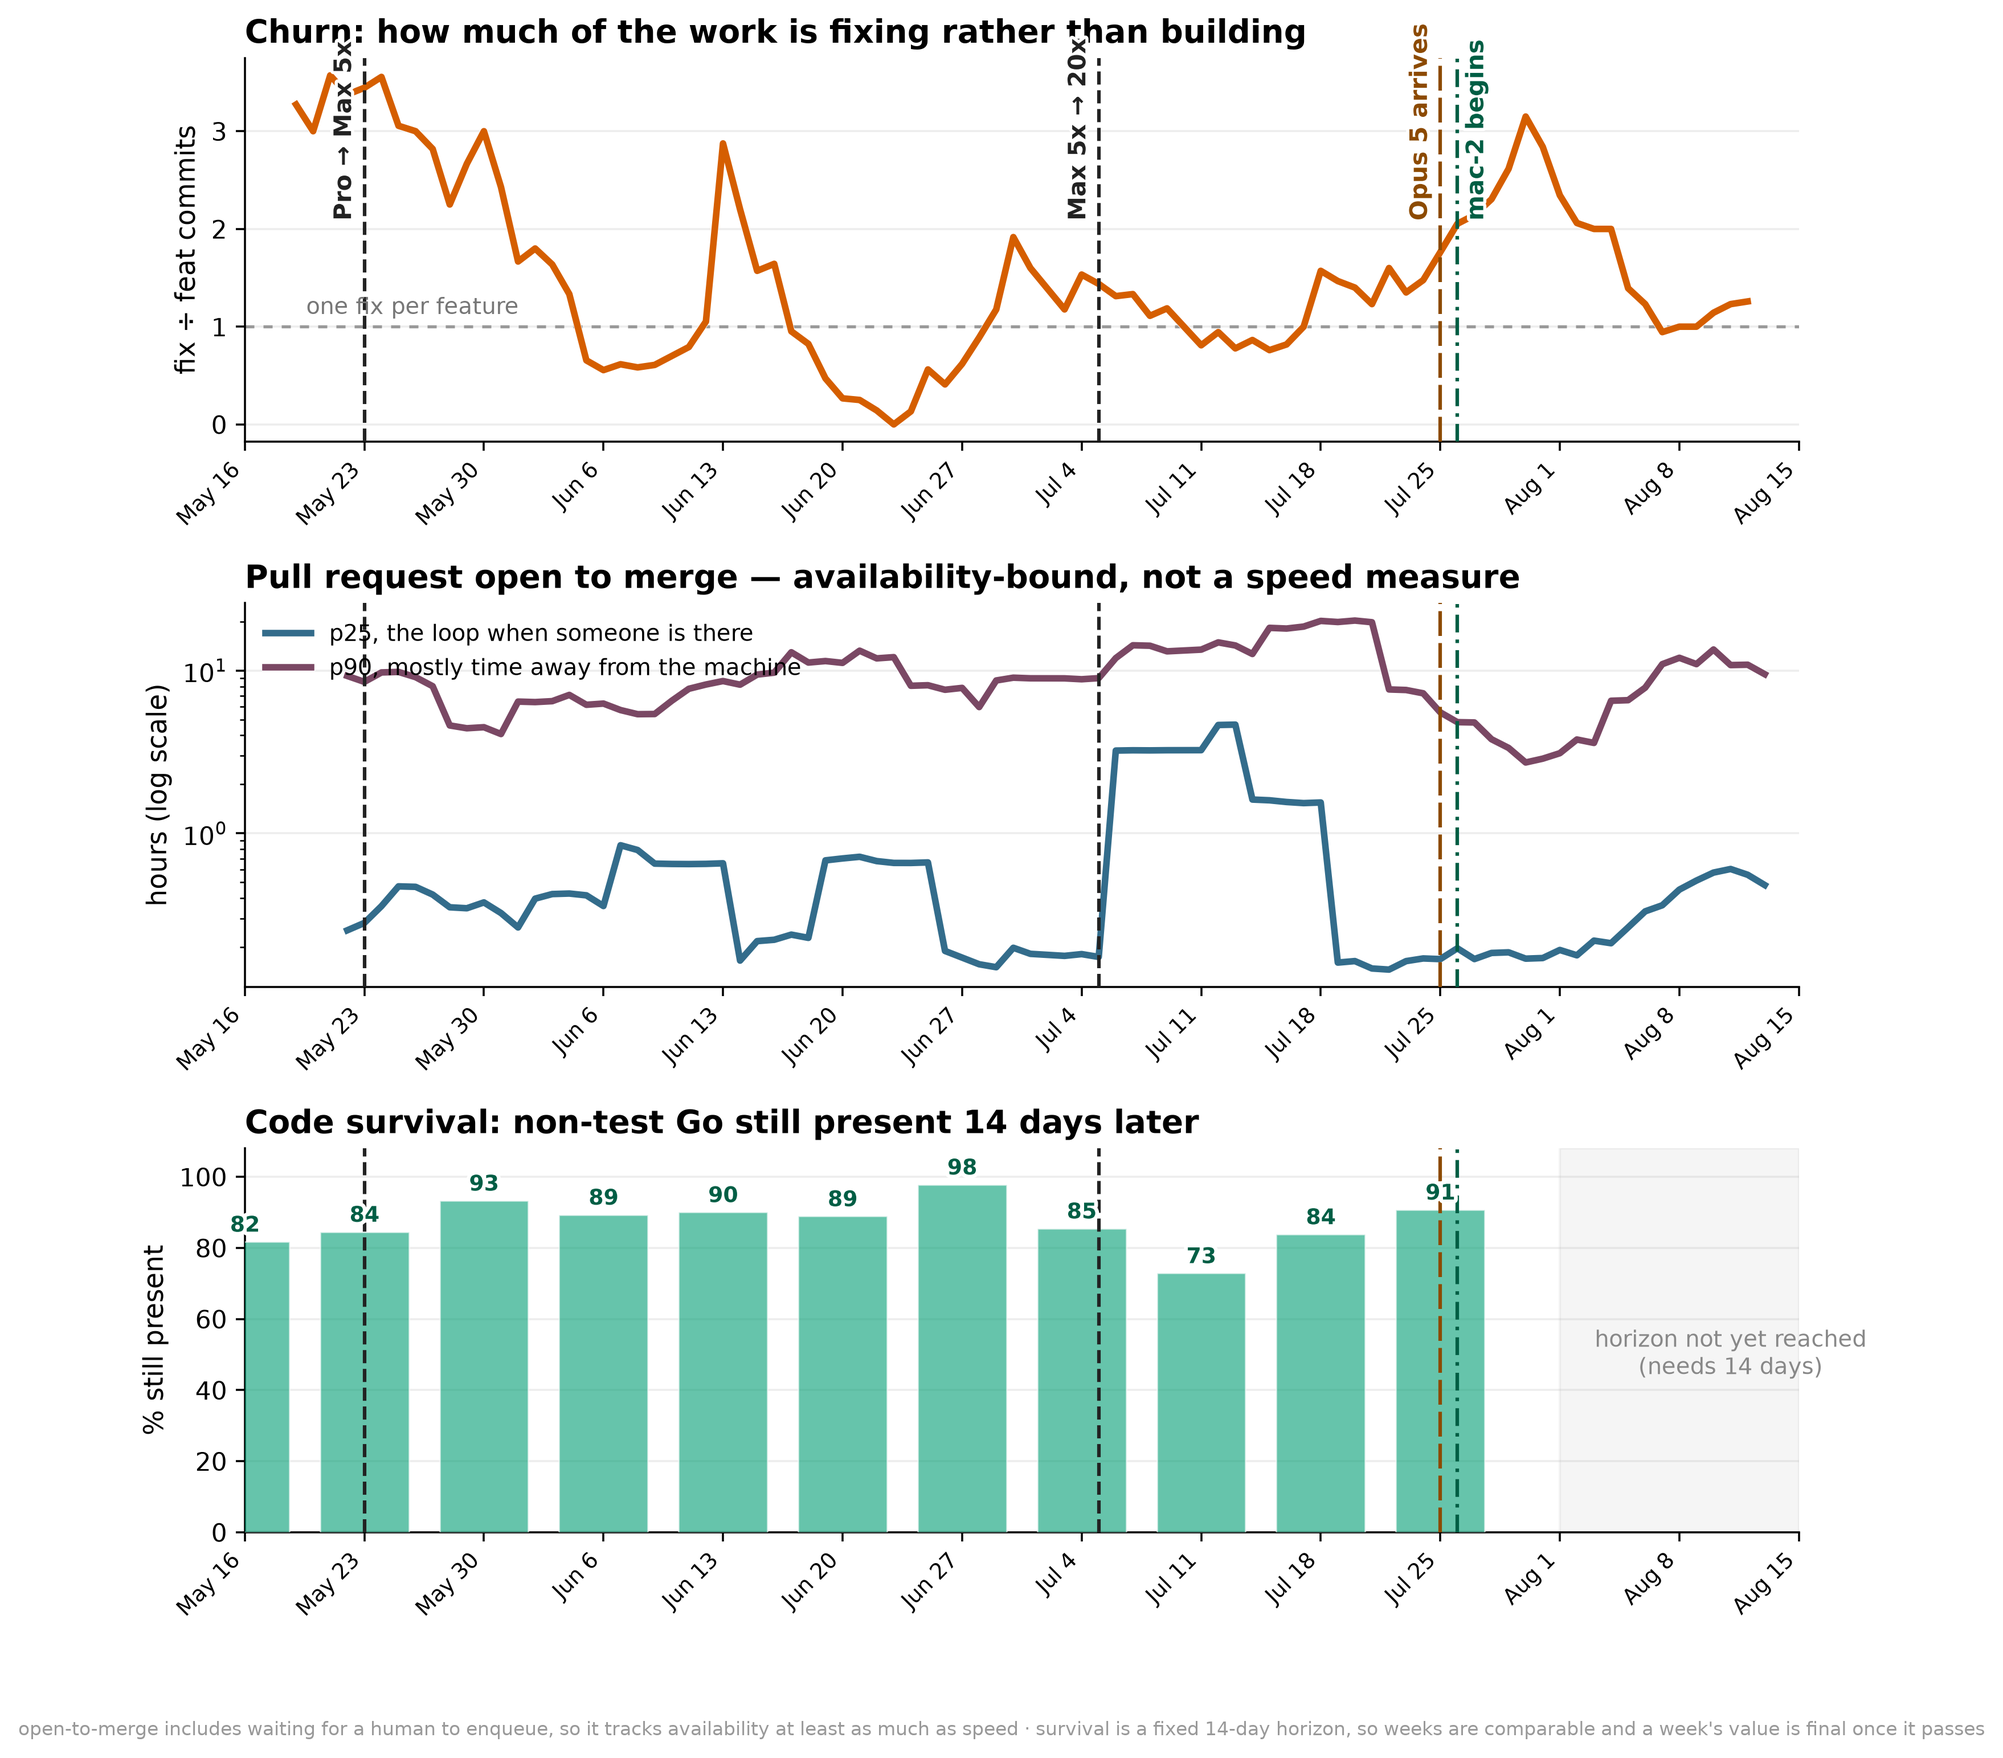
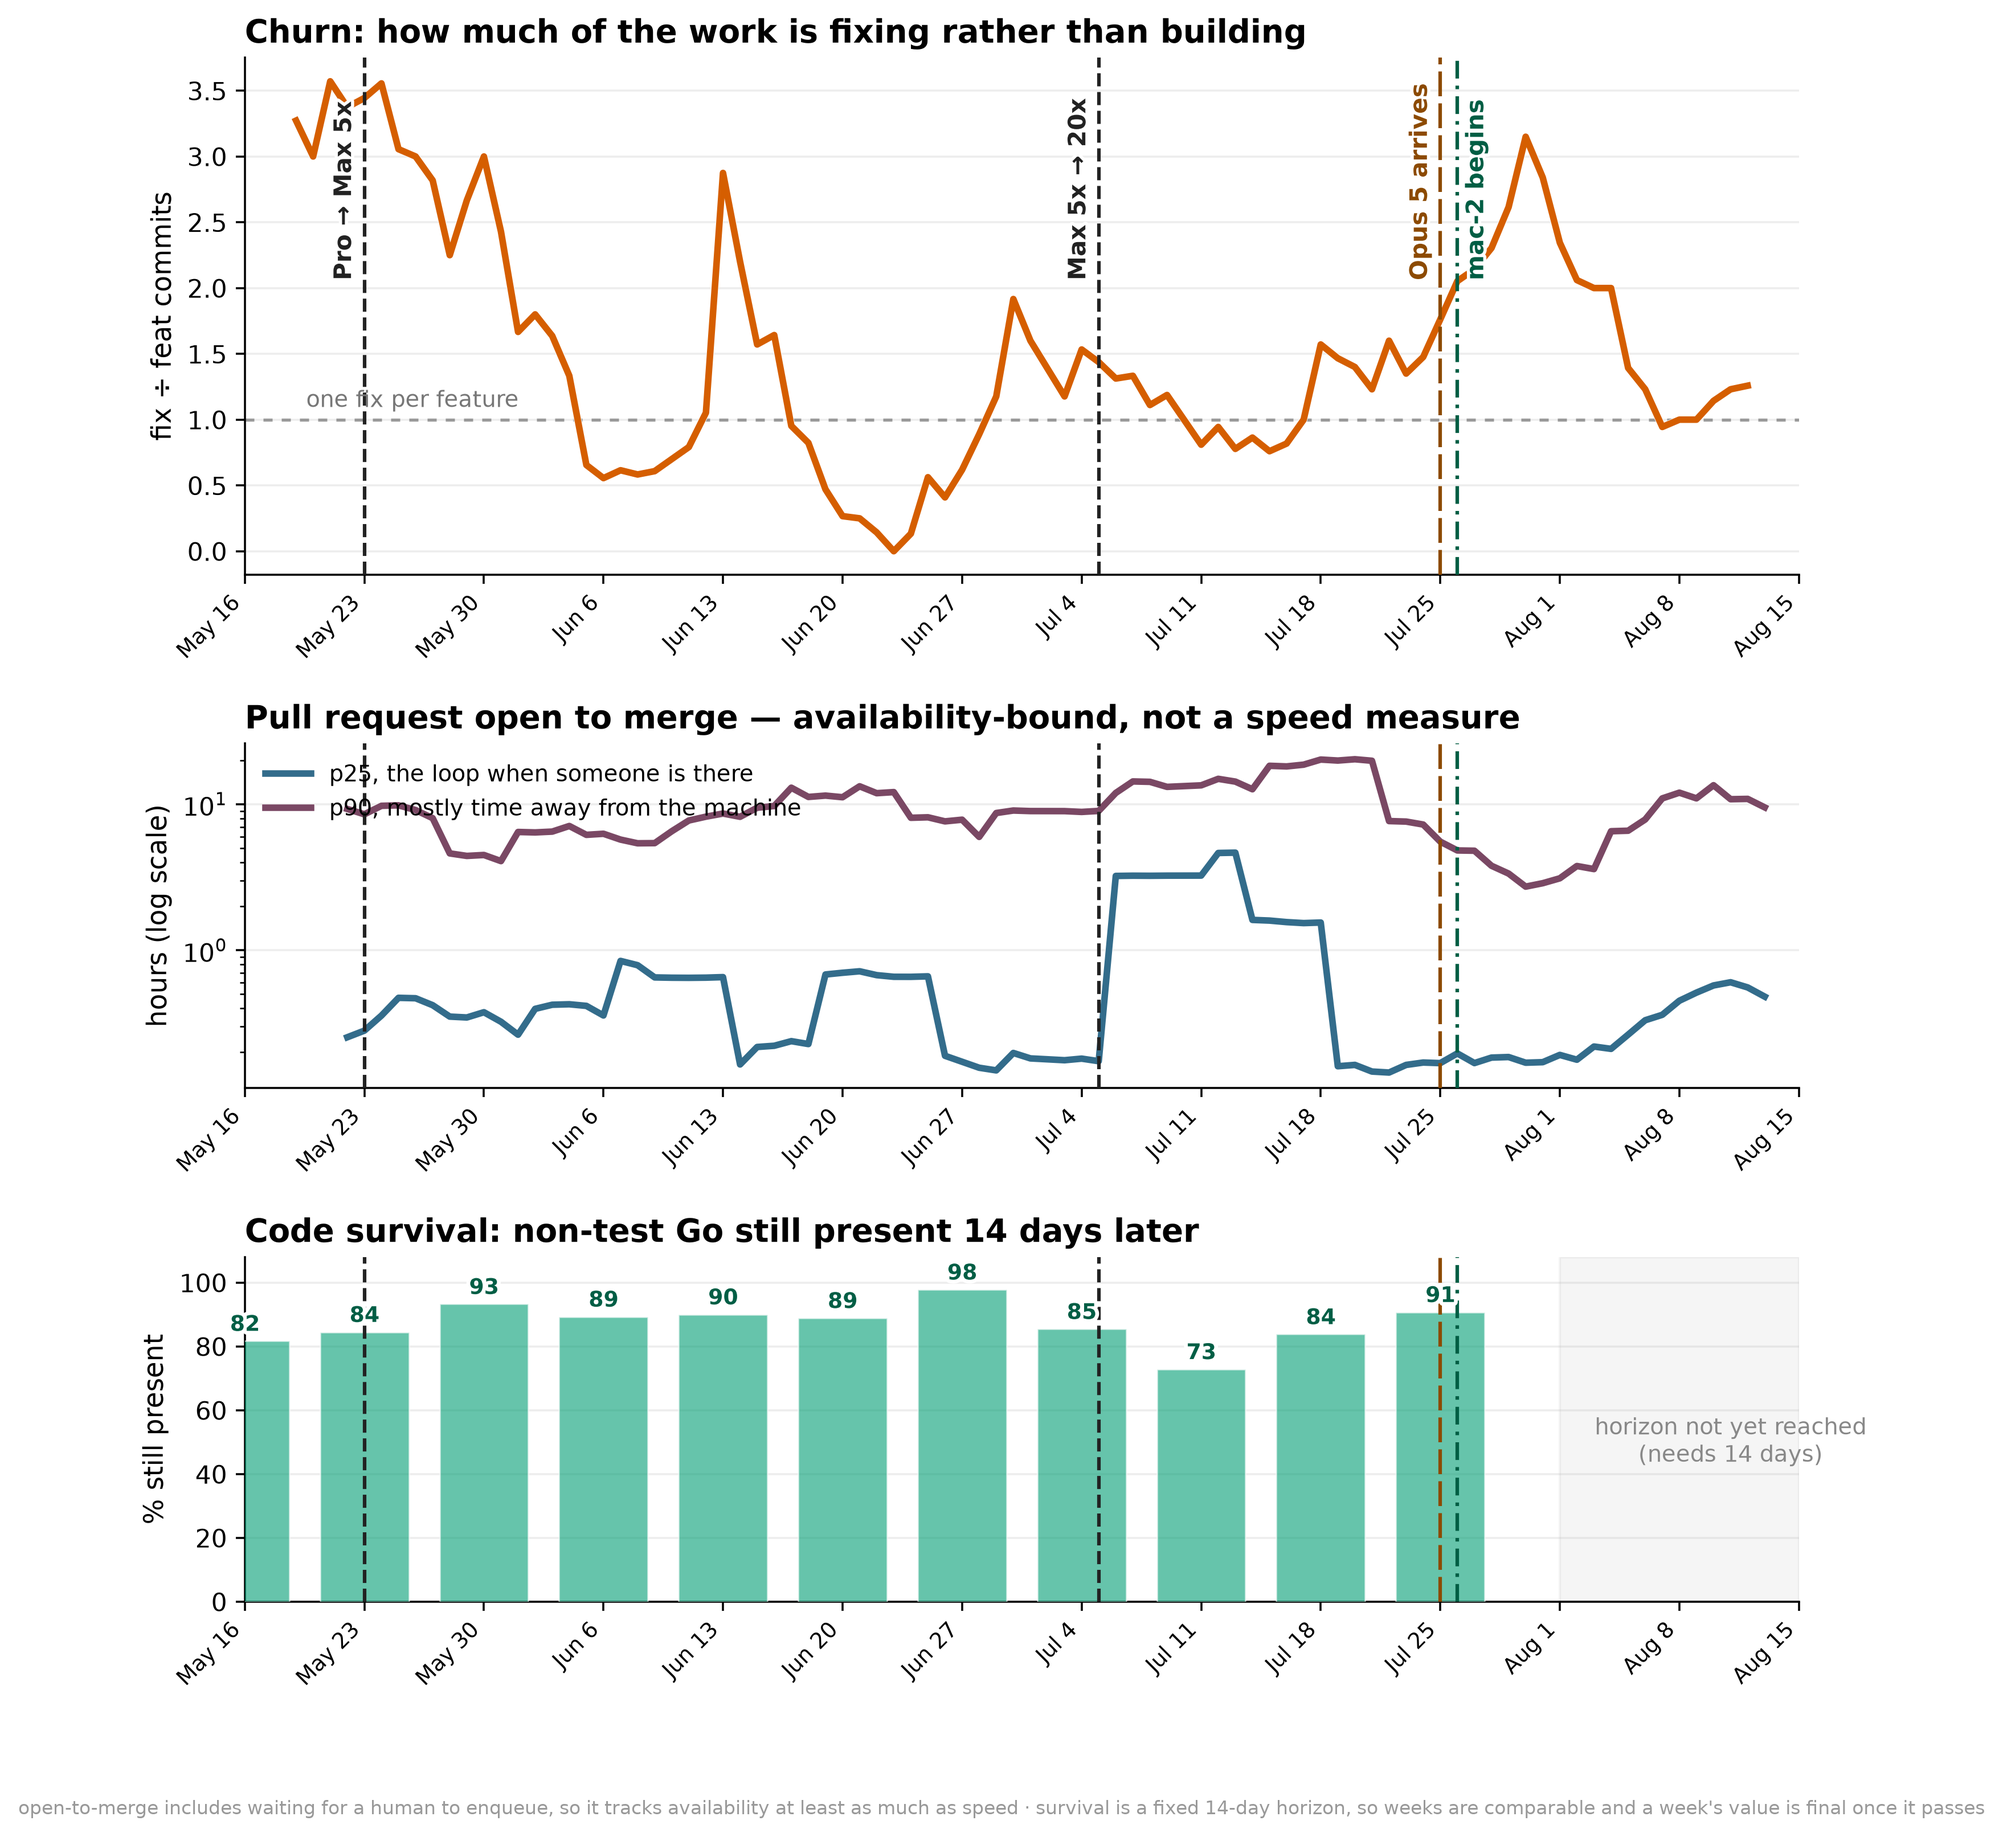
fix(charts): give the churn panel room for its own event labels
The four event labels on velocity_quality's first panel overflowed it into the
panel title. Measured against the axes box on origin/main: they span 0.58 to
between 1.04 and 1.08 of the panel height, so the longest one, "Opus 5 arrives",
sat 8% above the top with the title in that space.

Lowering the anchor is the obvious fix and the wrong one here. The labels are
half the panel tall, so fitting them below the top would drive them through the
ratio line, which reaches 3.4 at the first marker. The panel is simply too short
for the text it carries, so it gets the height instead: height_ratios 1.5 rather
than 1, over a figure 0.5in taller, with the anchor unchanged at 0.55.

Worst top is now 0.943. The other two panels lose about 10% of their height and
neither carries labels or dense features that needed it.

Measured rather than eyeballed, by querying each label's window extent against
the axes box before and after — the overflow is invisible at thumbnail size,
which is how it survived the review that first drew these labels.

Independent of #1582, which is open on the same file: that one changes
event_label and the tokens_by_model call site, this one changes the subplots
call. `git merge-tree` reports no conflict between them.

diff --git a/claude-usage/make_charts.py b/claude-usage/make_charts.py
@@ -1108,8 +1108,14 @@ def chart_velocity_quality():
     days = sorted(git)
     dxs = [dparse(d) for d in days]
 
-    fig, (b1, b2, b3) = plt.subplots(3, 1, figsize=(11, 10.5),
-                                     gridspec_kw=dict(height_ratios=[1, 1, 1], hspace=0.42))
+    # The churn panel is taller than the other two because it is the only one
+    # carrying event labels, and they are long: at equal heights the tallest
+    # ("Opus 5 arrives") ran to 1.08 of the panel and struck the title. Lowering
+    # the anchor instead would drive them through the ratio line, which reaches
+    # 3.4 at the first marker, so the panel gets the room rather than the label
+    # giving it up.
+    fig, (b1, b2, b3) = plt.subplots(3, 1, figsize=(11, 11.0),
+                                     gridspec_kw=dict(height_ratios=[1.5, 1, 1], hspace=0.42))
 
     # --- churn: fix against feat, over a week so the ratio has a denominator ---
     feat = rolling_mean([int(git[d].get("feat") or 0) for d in days])
